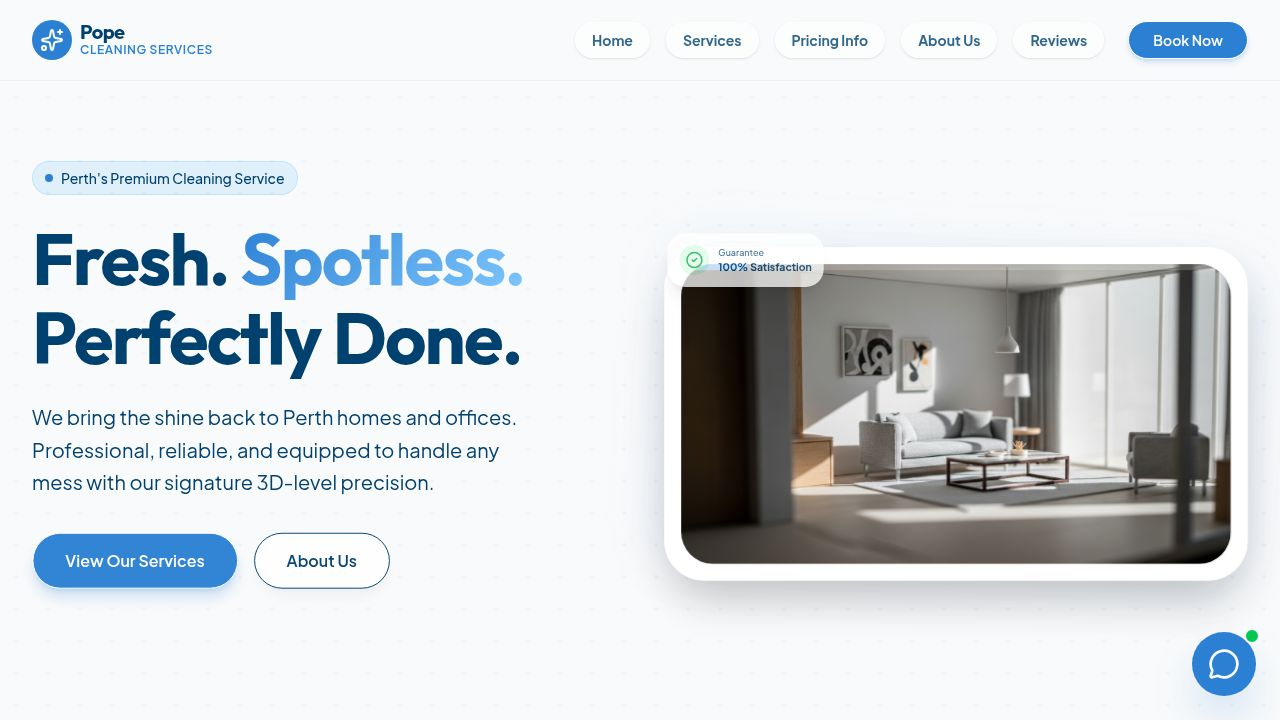
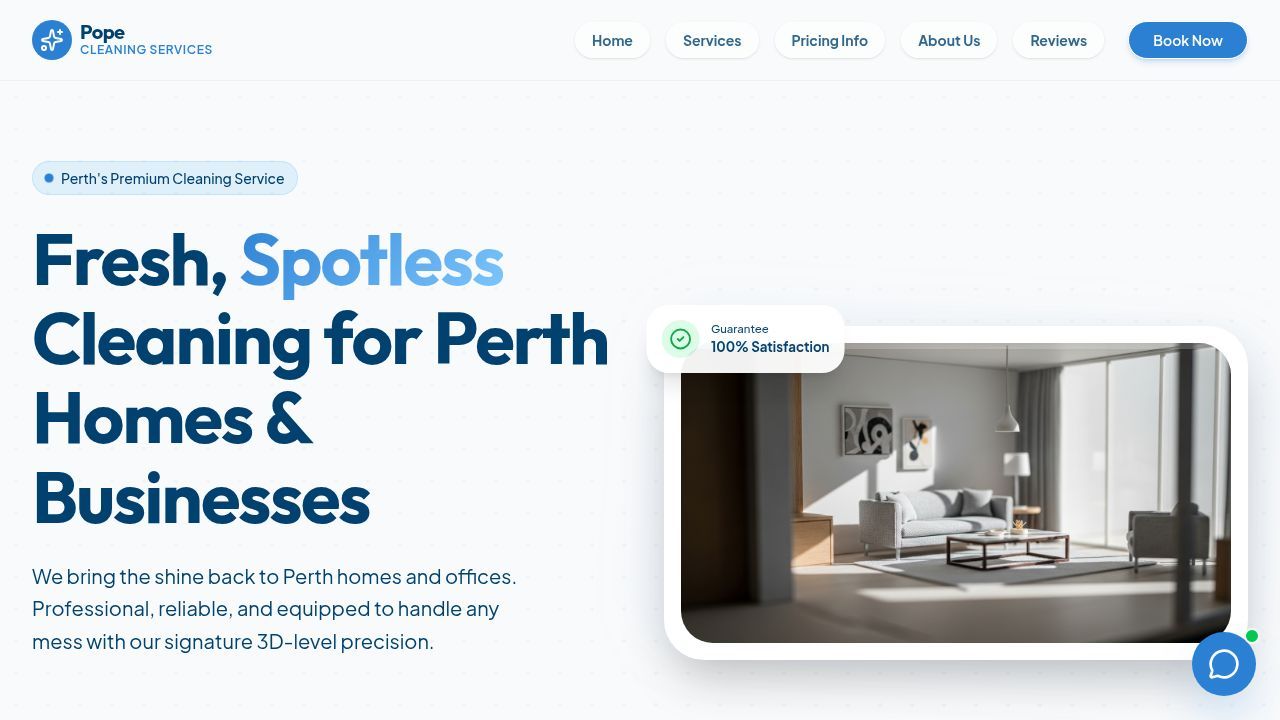
Update website title to reflect cleaning services in Perth
Update the hero section's main heading in `client/src/components/home/hero.tsx` to display "Fresh, Spotless Cleaning for Perth Homes & Businesses" and update `client/public/opengraph.jpg`.

Replit-Commit-Author: Agent
Replit-Commit-Session-Id: 91fc2277-85b2-4b59-9dd3-9692f7c02076
Replit-Commit-Checkpoint-Type: full_checkpoint
Replit-Commit-Event-Id: 5b327fc4-2c44-42da-88ac-aa09d1a12441
Replit-Commit-Screenshot-Url: https://storage.googleapis.com/screenshot-production-us-central1/b344bfab-6f91-421f-94c6-48e3dd77e76f/91fc2277-85b2-4b59-9dd3-9692f7c02076/iYbkMuS
Replit-Helium-Checkpoint-Created: true

Changed region(s): [[0.0, 0.3361, 1.0, 0.9778], [0.1875, 0.3361, 0.4062, 0.3972], [0.0312, 0.8861, 0.3438, 0.9167]]

diff --git a/client/src/components/home/hero.tsx b/client/src/components/home/hero.tsx
@@ -68,8 +68,8 @@ export function Hero() {
             
             <RevealOnScroll delay={0.2}>
               <h1 className="text-5xl md:text-6xl lg:text-7xl font-bold mb-6 text-secondary leading-[1.1]">
-                Fresh. <span className="text-gradient">Spotless.</span> <br />
-                Perfectly Done.
+                Fresh, <span className="text-gradient">Spotless</span> <br />
+                Cleaning for Perth Homes & Businesses
               </h1>
             </RevealOnScroll>
             
